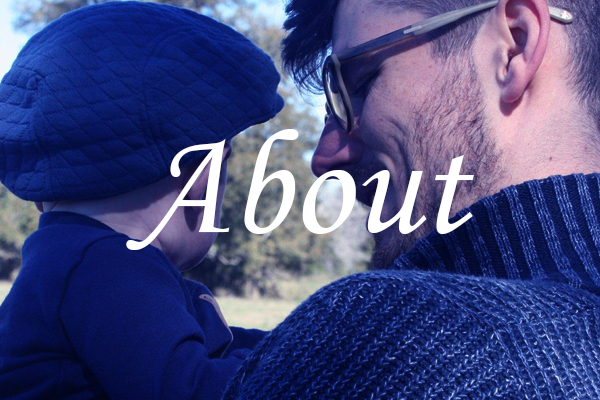
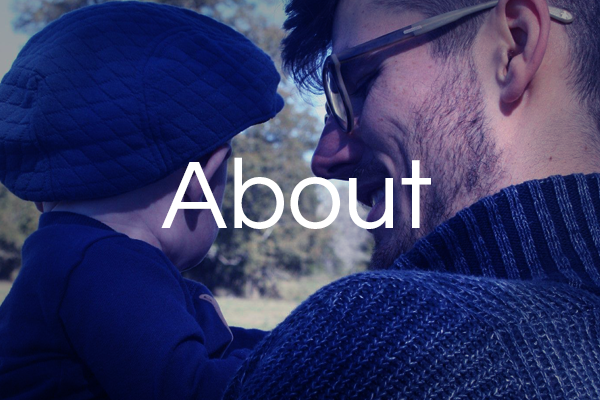
Updated button sizes

diff --git a/assets/css/style.css b/assets/css/style.css
@@ -13,7 +13,7 @@
    Base Styles, Bootstrap Modifications & Fonts Import
    ========================================================================== */
 
-@import url(http://fonts.googleapis.com/css?family=Montserrat:400,700);
+@import url(http://fonts.googleapis.com/css?family=Questrial:400,700);
 
 
 ::-moz-selection {
@@ -59,7 +59,7 @@
 
 
 body {
-    font-family: 'Montserrat', sans-serif;
+    font-family: 'Questrial';
     font-weight: 400;
     font-size: 16px;
 
@@ -122,27 +122,6 @@ h1, h2, h3, h4, h5, h6 {
     background-size: cover;
 }
 
-#workheaderwrap {
-	background: url(../img/back.jpg) no-repeat center top;
-	margin-top: 45px;
-	padding-top: 105px;
-	text-align:center;
-	background-attachment: relative;
-	background-position: center center;
-	min-height: 400px;
-	width: 100%;
-
-    -webkit-background-size: 100%;
-    -moz-background-size: 100%;
-    -o-background-size: 100%;
-    background-size: 100%;
-
-    -webkit-background-size: cover;
-    -moz-background-size: cover;
-    -o-background-size: cover;
-    background-size: cover;
-}
-
 #headerwrap h1 {
 	color:#ffffff;
 	padding-top: 10px;
@@ -153,55 +132,6 @@ h1, h2, h3, h4, h5, h6 {
 }
 
 #headerwrap h4 {
-	font-weight: 400;
-	color: #ffffff
-}
-
-#workheaderwrap h1 {
-	color:#ffffff;
-	padding-top: 10px;
-	padding-bottom: 20px;
-	letter-spacing: 4px;
-	font-size: 70px;
-	font-weight: bold;
-}
-
-#workheaderwrap h4 {
-	font-weight: 400;
-	color: #ffffff
-}
-
-#resumeheaderwrap {
-	background: url(../img/back.jpg) no-repeat center top;
-	margin-top: 45px;
-	padding-top: 105px;
-	text-align:center;
-	background-attachment: relative;
-	background-position: center center;
-	min-height: 400px;
-	width: 100%;
-
-    -webkit-background-size: 100%;
-    -moz-background-size: 100%;
-    -o-background-size: 100%;
-    background-size: 100%;
-
-    -webkit-background-size: cover;
-    -moz-background-size: cover;
-    -o-background-size: cover;
-    background-size: cover;
-}
-
-#resumeheaderwrap h1 {
-	color:#ffffff;
-	padding-top: 10px;
-	padding-bottom: 20px;
-	letter-spacing: 4px;
-	font-size: 70px;
-	font-weight: bold;
-}
-
-#resumeheaderwrap h4 {
 	font-weight: 400;
 	color: #ffffff
 }
@@ -274,30 +204,31 @@ h1, h2, h3, h4, h5, h6 {
 	color: #ffffff
 }
 
-#aboutwrap {
-	background: url(../img/about.jpg) no-repeat center top;
-	margin-top: -70px;
-	padding-top: 250px;
-	text-align:center;
-	background-attachment: relative;
-	background-position: center center;
-	min-height: 550px;
-	width: 100%;
-
-    -webkit-background-size: 100%;
-    -moz-background-size: 100%;
-    -o-background-size: 100%;
-    background-size: 100%;
-
-    -webkit-background-size: cover;
-    -moz-background-size: cover;
-    -o-background-size: cover;
-    background-size: cover;
-}
-
 #buttoncontainer {
   padding-left: 30px;
   padding-right: 30px;
+  padding-bottom: 45px;
+  text-align: center;
+  max-width: 1440px;
+}
+
+@media (max-width: 992px) {
+  .lastbutton {
+    float: none;
+    margin: auto;
+    clear: both;
+    padding-top: 45px;
+  }
+}
+
+@media (max-width: 768px) {
+  .gallery {
+    max-width: 450px;
+    margin: auto;
+  }
+  .lastbutton {
+    padding-top: 0px;
+  }
 }
 
 /* Gallery */

diff --git a/index.html b/index.html
@@ -58,13 +58,13 @@
 	<div id="buttoncontainer" class="container-fluid">
 		<div class="row centered mt mb">
 
-			<div class="col-lg-4 col-md-4 col-sm-4 gallery">
+			<div class="col-lg-4 col-md-4 col-sm-6 gallery">
 				<a href="resume.html"><img src="assets/img/portfolio/ResumeColor.png" class="img-responsive"></a>
 			</div>
-			<div class="col-lg-4 col-md-4 col-sm-4 gallery">
+			<div class="col-lg-4 col-md-4 col-sm-6 gallery">
 				<a href="work.html"><img src="assets/img/portfolio/WorkSamplesColor.png" class="img-responsive"></a>
 			</div>
-			<div class="col-lg-4 col-md-4 col-sm-4 gallery">
+			<div class="col-lg-4 col-md-4 col-sm-6 gallery lastbutton">
 				<a href="about.html"><img src="assets/img/portfolio/AboutColor.png" class="img-responsive"></a>
 			</div>
 		</div>

diff --git a/about.html b/about.html
@@ -44,14 +44,18 @@
     </div>
 
 
-	<div id="aboutwrap">
-	    <div class="container">
-			<div class="row">
-				<div class="col-lg-6 col-lg-offset-3">
-				</div>
-			</div>
-	    </div> <!-- /container -->
-	</div>
+    <div id="headerwrap">
+  	    <div class="container">
+  			<div class="row">
+  				<div class="col-lg-6 col-lg-offset-3">
+  					<h4>Here's some things</h4>
+  					<h1>About</h1>
+            <h4>me</h4>
+            <h4></h>
+  				</div>
+  			</div>
+  	    </div> <!-- /container -->
+  	</div>
 
 	<div class="container">
 		<div class="row centered mt mb">

diff --git a/resume.html b/resume.html
@@ -29,7 +29,7 @@
 
   <body>
 
-        <div id="resumeheaderwrap">
+        <div id="headerwrap">
       	    <div class="container">
       			<div class="row">
       				<div class="col-lg-6 col-lg-offset-3">

diff --git a/work.html b/work.html
@@ -29,7 +29,7 @@
 
   <body>
 
-    <div id="workheaderwrap">
+    <div id="headerwrap">
   	    <div class="container">
   			<div class="row">
   				<div class="col-lg-6 col-lg-offset-3">
